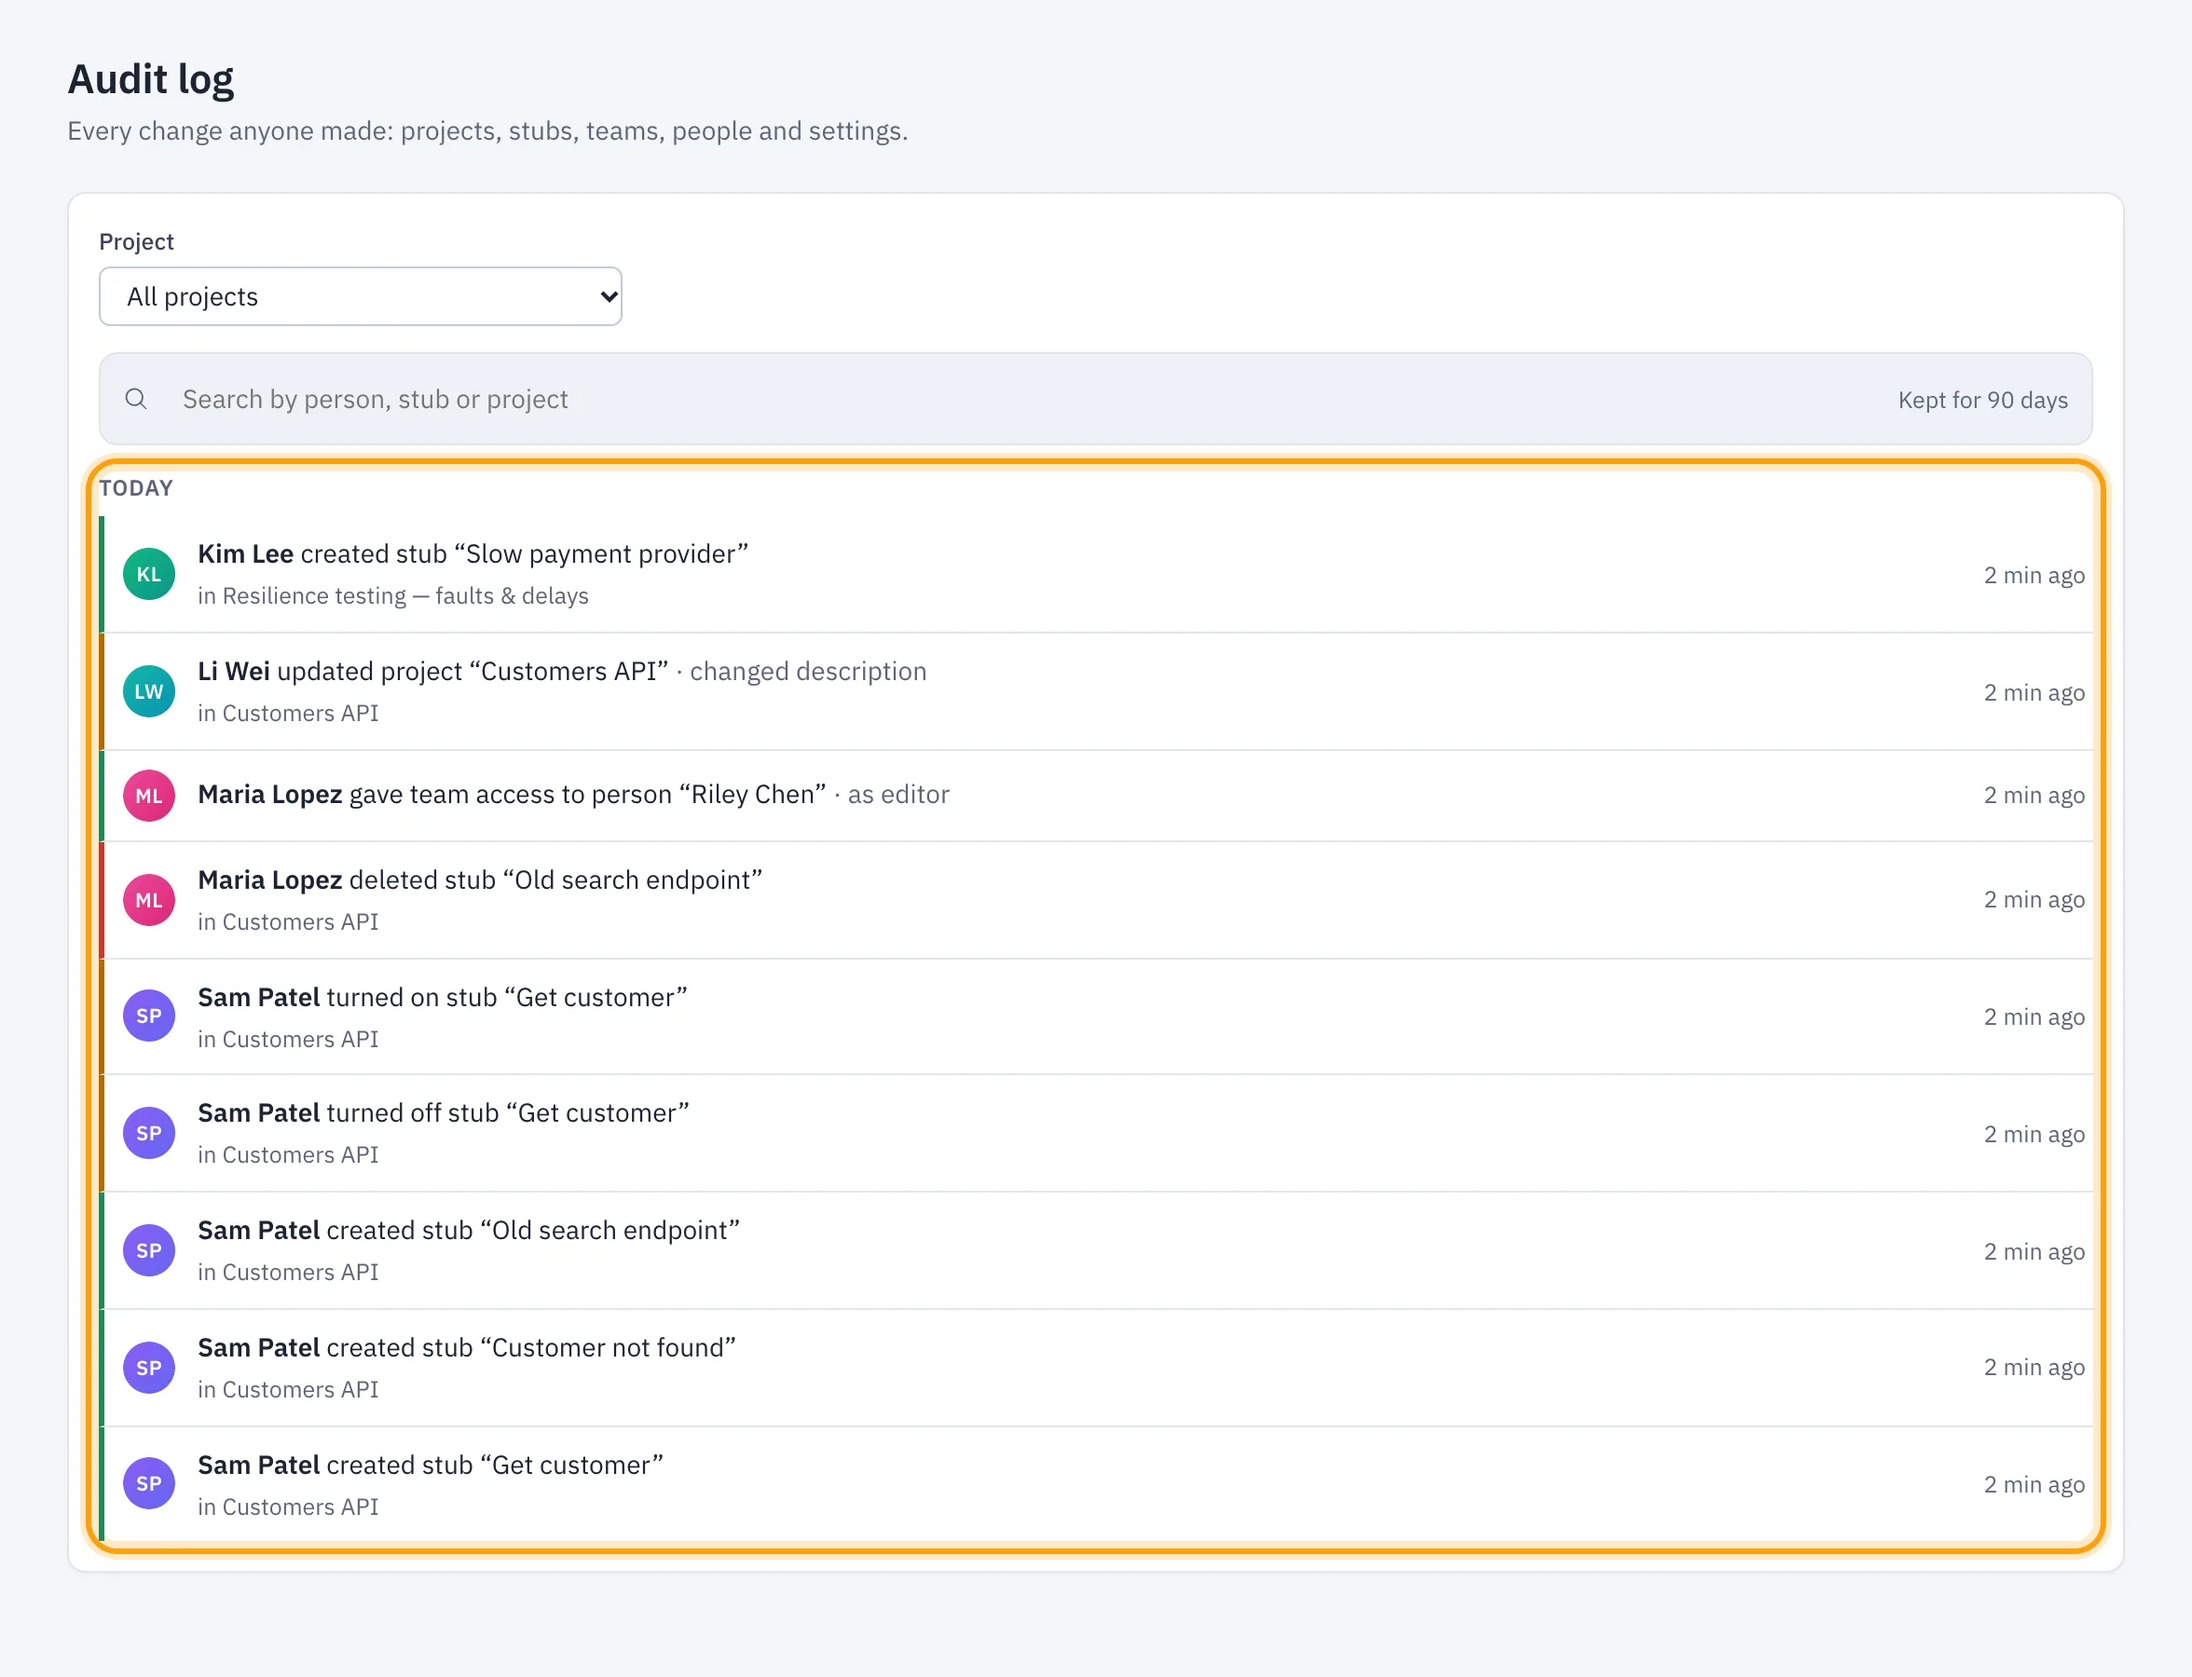
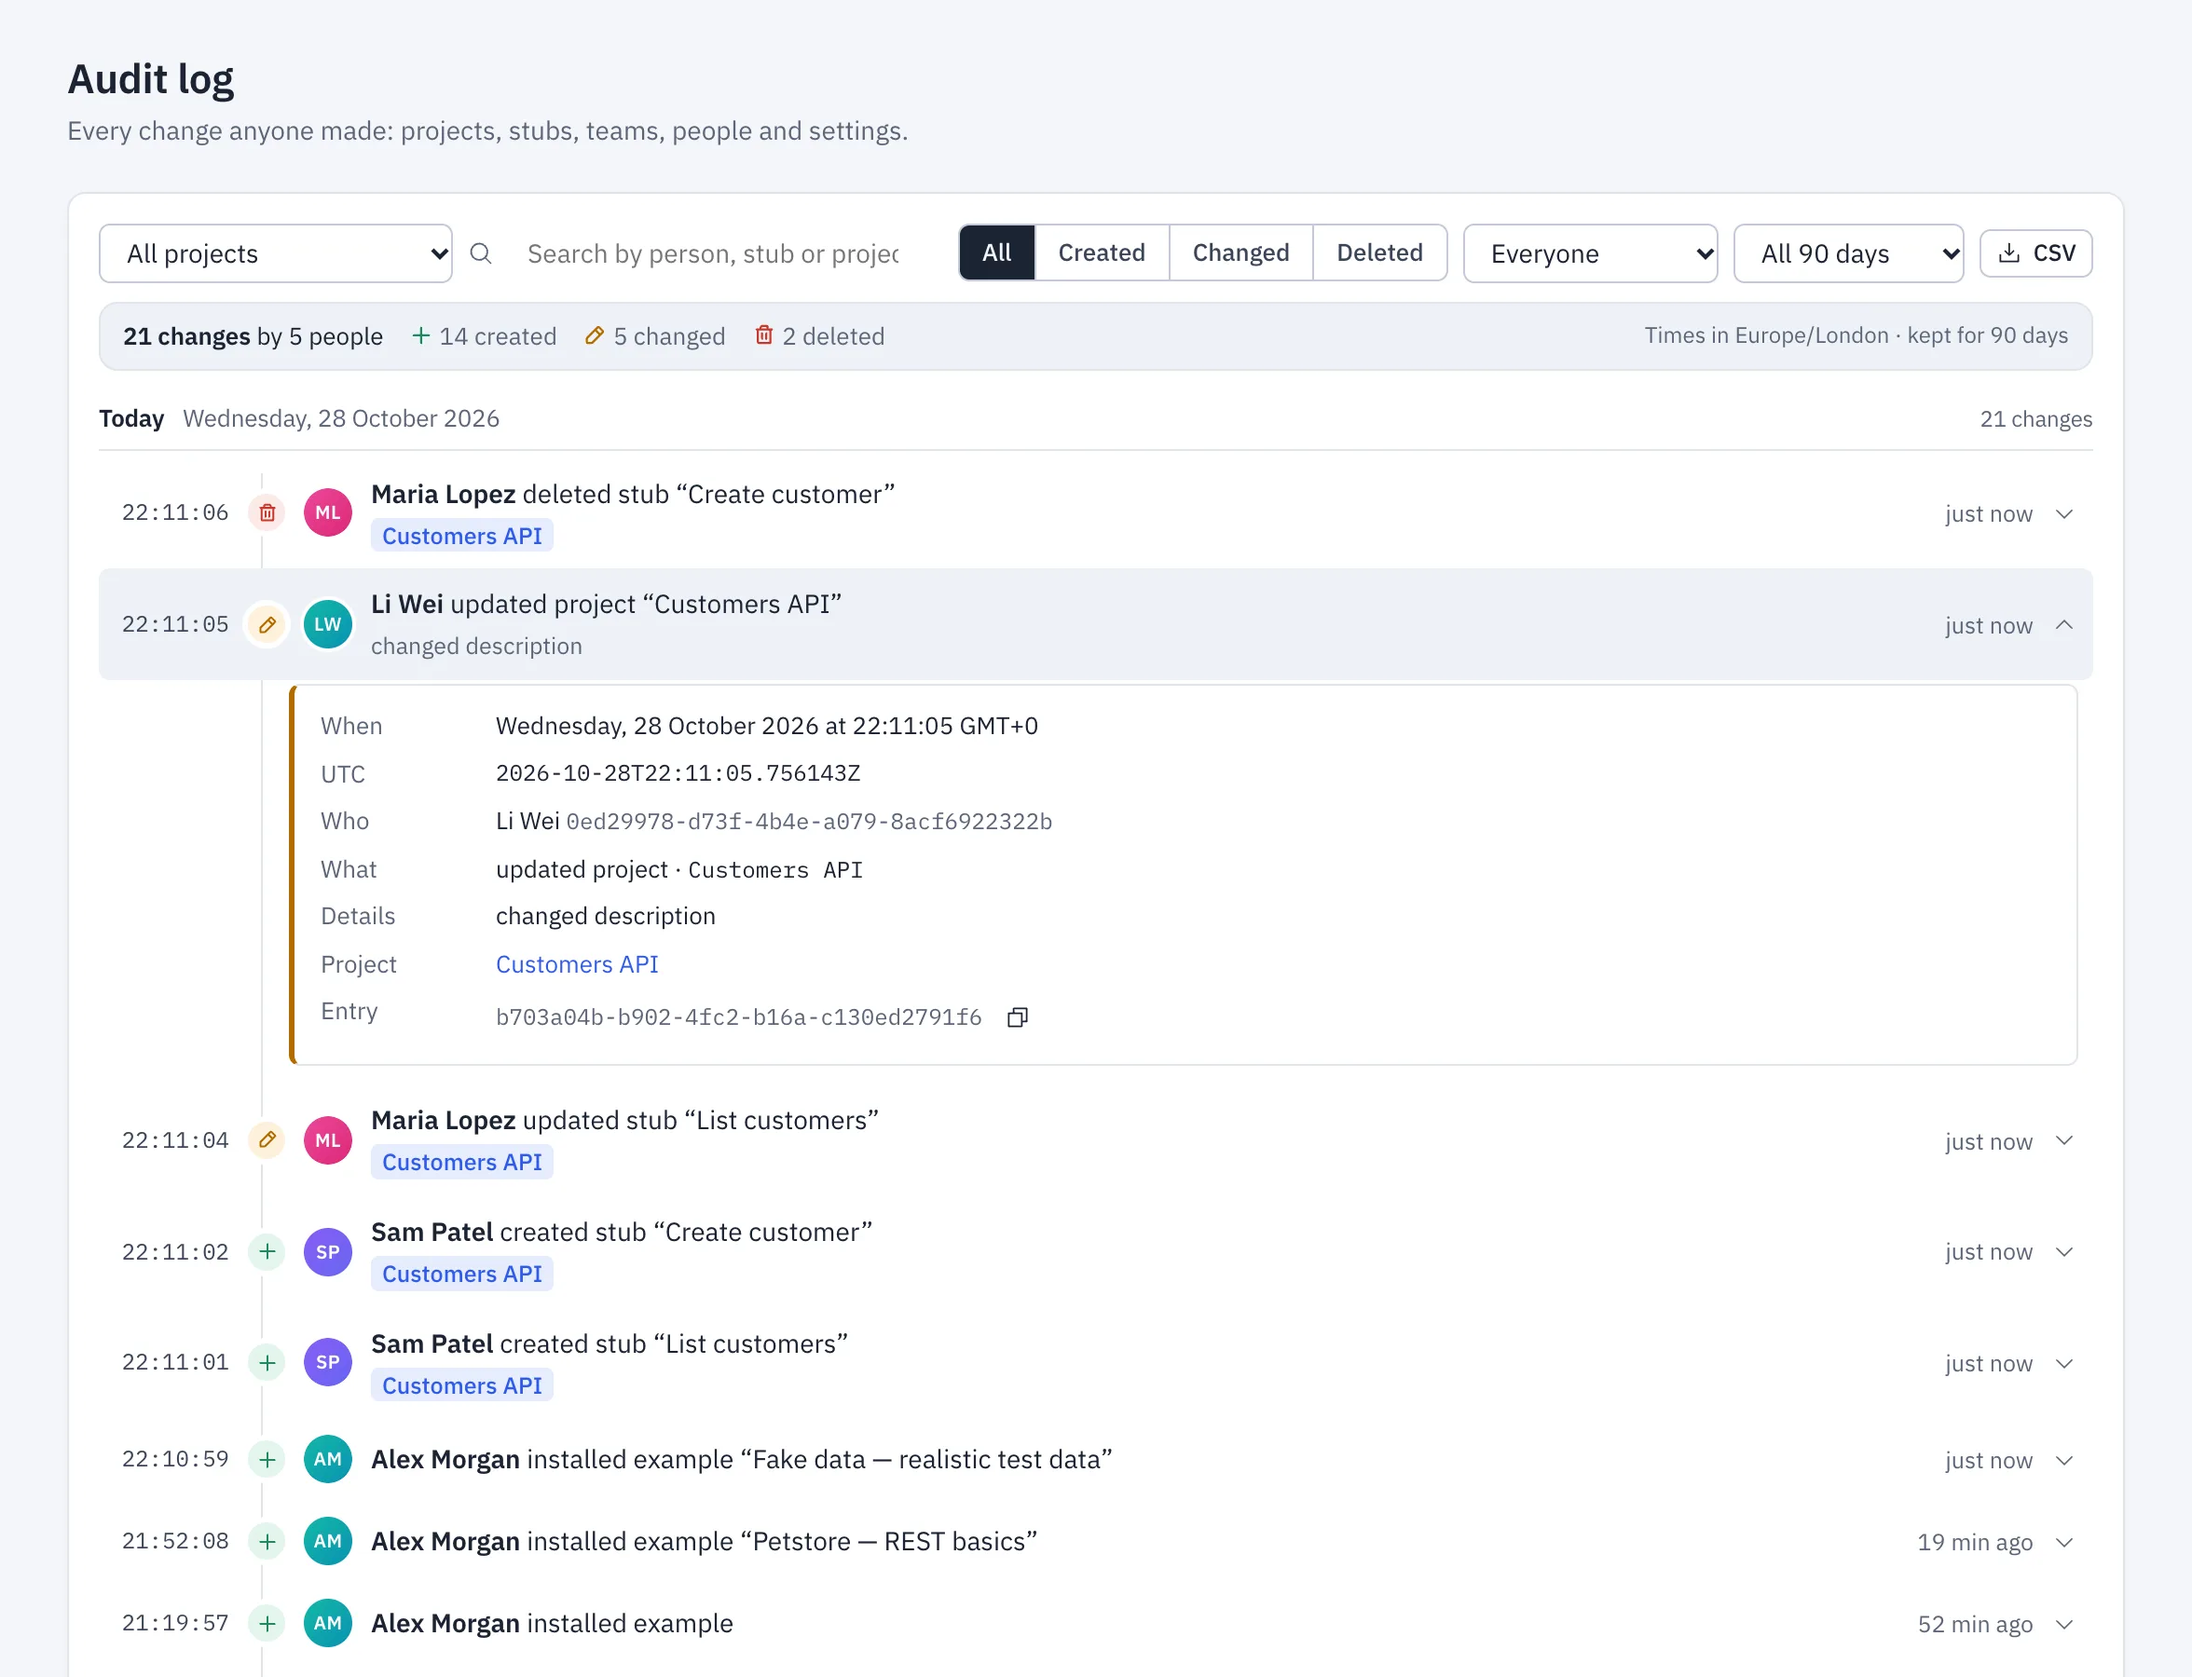
Show the new audit log on the website
Add an audit log card to the screenshot gallery in light and dark, and
refresh the tutorial's audit screenshot.

diff --git a/website/index.html b/website/index.html
@@ -115,6 +115,13 @@
           </picture>
         </figure>
         <figure class="card">
+          <figcaption><strong>Know who changed what, to the second.</strong> Every change on a timeline, with filters, full details and a CSV download.</figcaption>
+          <picture>
+            <source media="(prefers-color-scheme: dark)" srcset="/assets/img/shots/audit-dark.webp 1440w, /assets/img/shots/audit-dark@2x.webp 2880w" sizes="(max-width: 760px) 86vw, 760px">
+            <img src="/assets/img/shots/audit-light.webp" srcset="/assets/img/shots/audit-light.webp 1440w, /assets/img/shots/audit-light@2x.webp 2880w" sizes="(max-width: 760px) 86vw, 760px" alt="The audit log for today, with Li Wei's project change opened to show the exact local and UTC time" width="1440" height="900" loading="lazy">
+          </picture>
+        </figure>
+        <figure class="card">
           <figcaption><strong>Back up exactly what you need.</strong> Whole organisations or single projects, restored into any MockHub.</figcaption>
           <picture>
             <source media="(prefers-color-scheme: dark)" srcset="/assets/img/shots/backup-dark.webp 1440w, /assets/img/shots/backup-dark@2x.webp 2880w" sizes="(max-width: 760px) 86vw, 760px">

diff --git a/website/tutorials/index.html b/website/tutorials/index.html
@@ -930,7 +930,7 @@ curl -X POST $MOCK/example-soap/ws/calculator -H "Content-Type: text/xml" -d \
             <li>
               <h3>See who changed what</h3>
               <p>Every create, change and delete is recorded with the person and the time. Open a project's <strong>Activity</strong> tab for its history. Admins, and managers of organisations and teams, also get <strong>Audit log</strong> in the sidebar, with the exact time of each change, filters by kind, person and date range, and a CSV download. Entries are kept for 90 days.</p>
-              <figure class="tut-shot"><img src="/assets/img/tutorials/teams-5-audit.webp" alt="The audit log for today: Sam created and turned off stubs, Maria deleted one and gave Riley access, Li changed a project" width="1176" height="900" loading="lazy"></figure>
+              <figure class="tut-shot"><img src="/assets/img/tutorials/teams-5-audit.webp" alt="The audit log for today: exact times on a timeline, filters by kind, person and date, and Li Wei's project change opened to show the full date, UTC time and entry ID" width="1176" height="900" loading="lazy"></figure>
             </li>
           </ol>
           <div class="tut-table">
